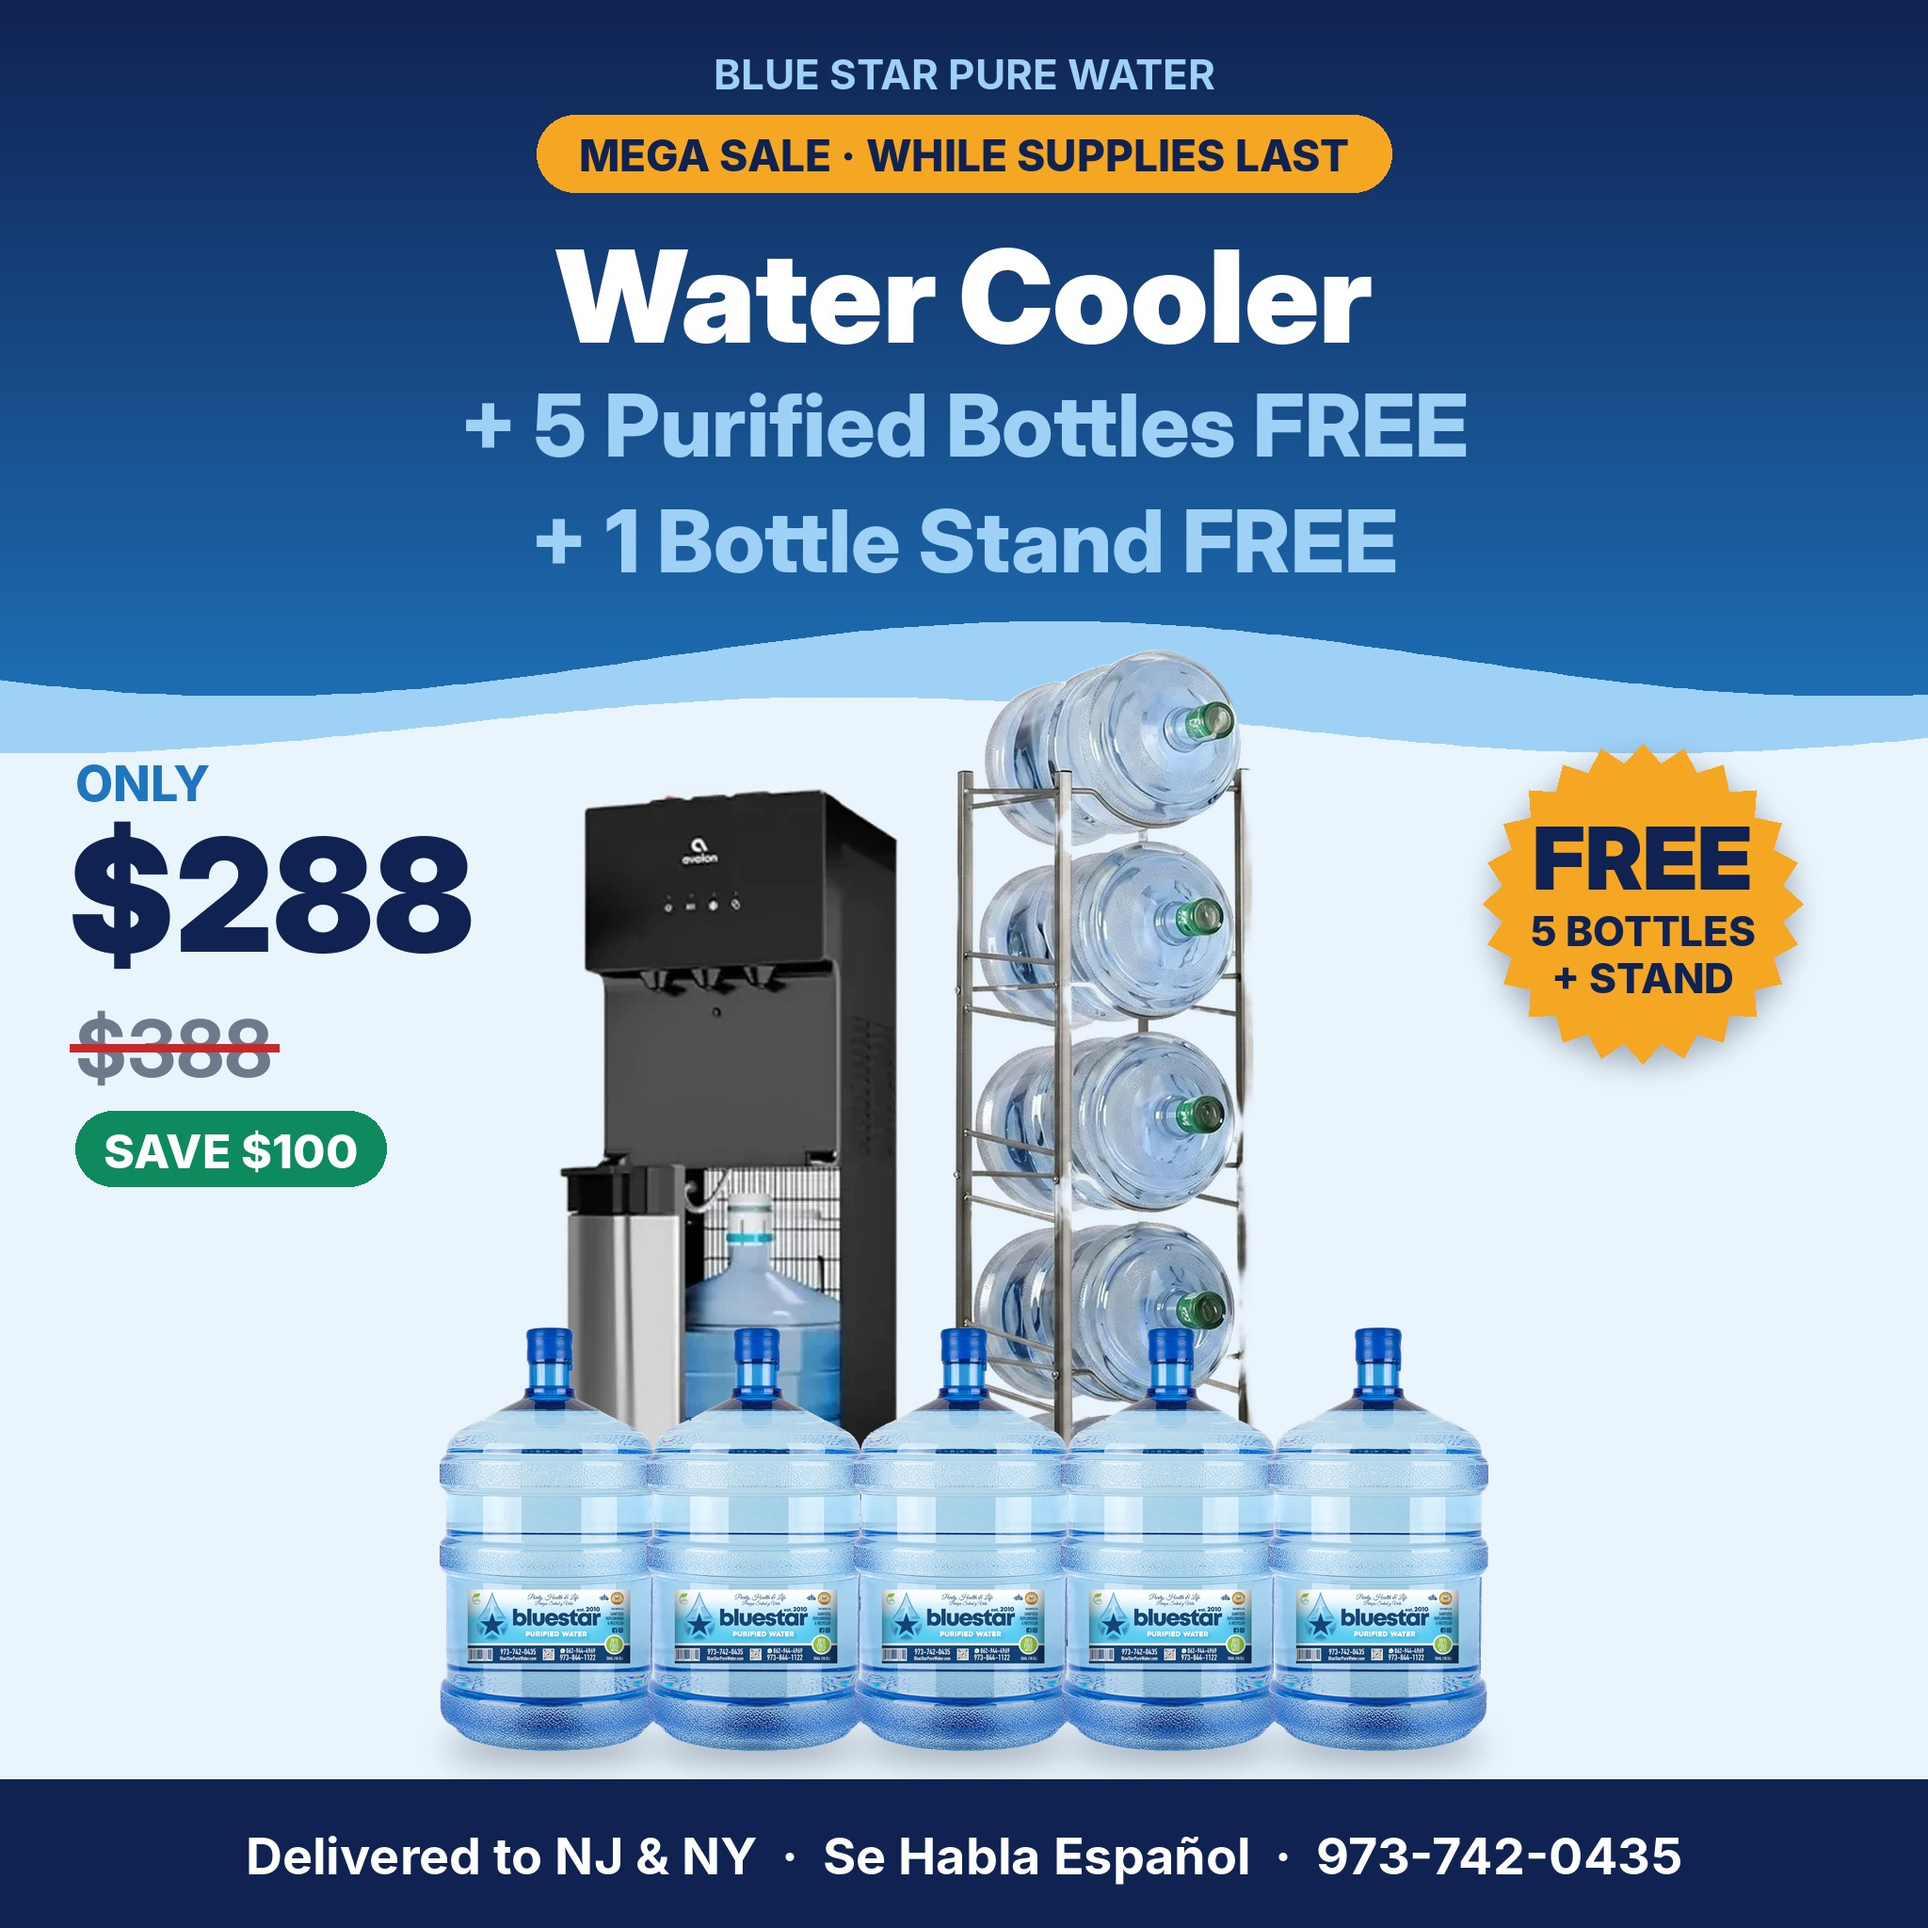
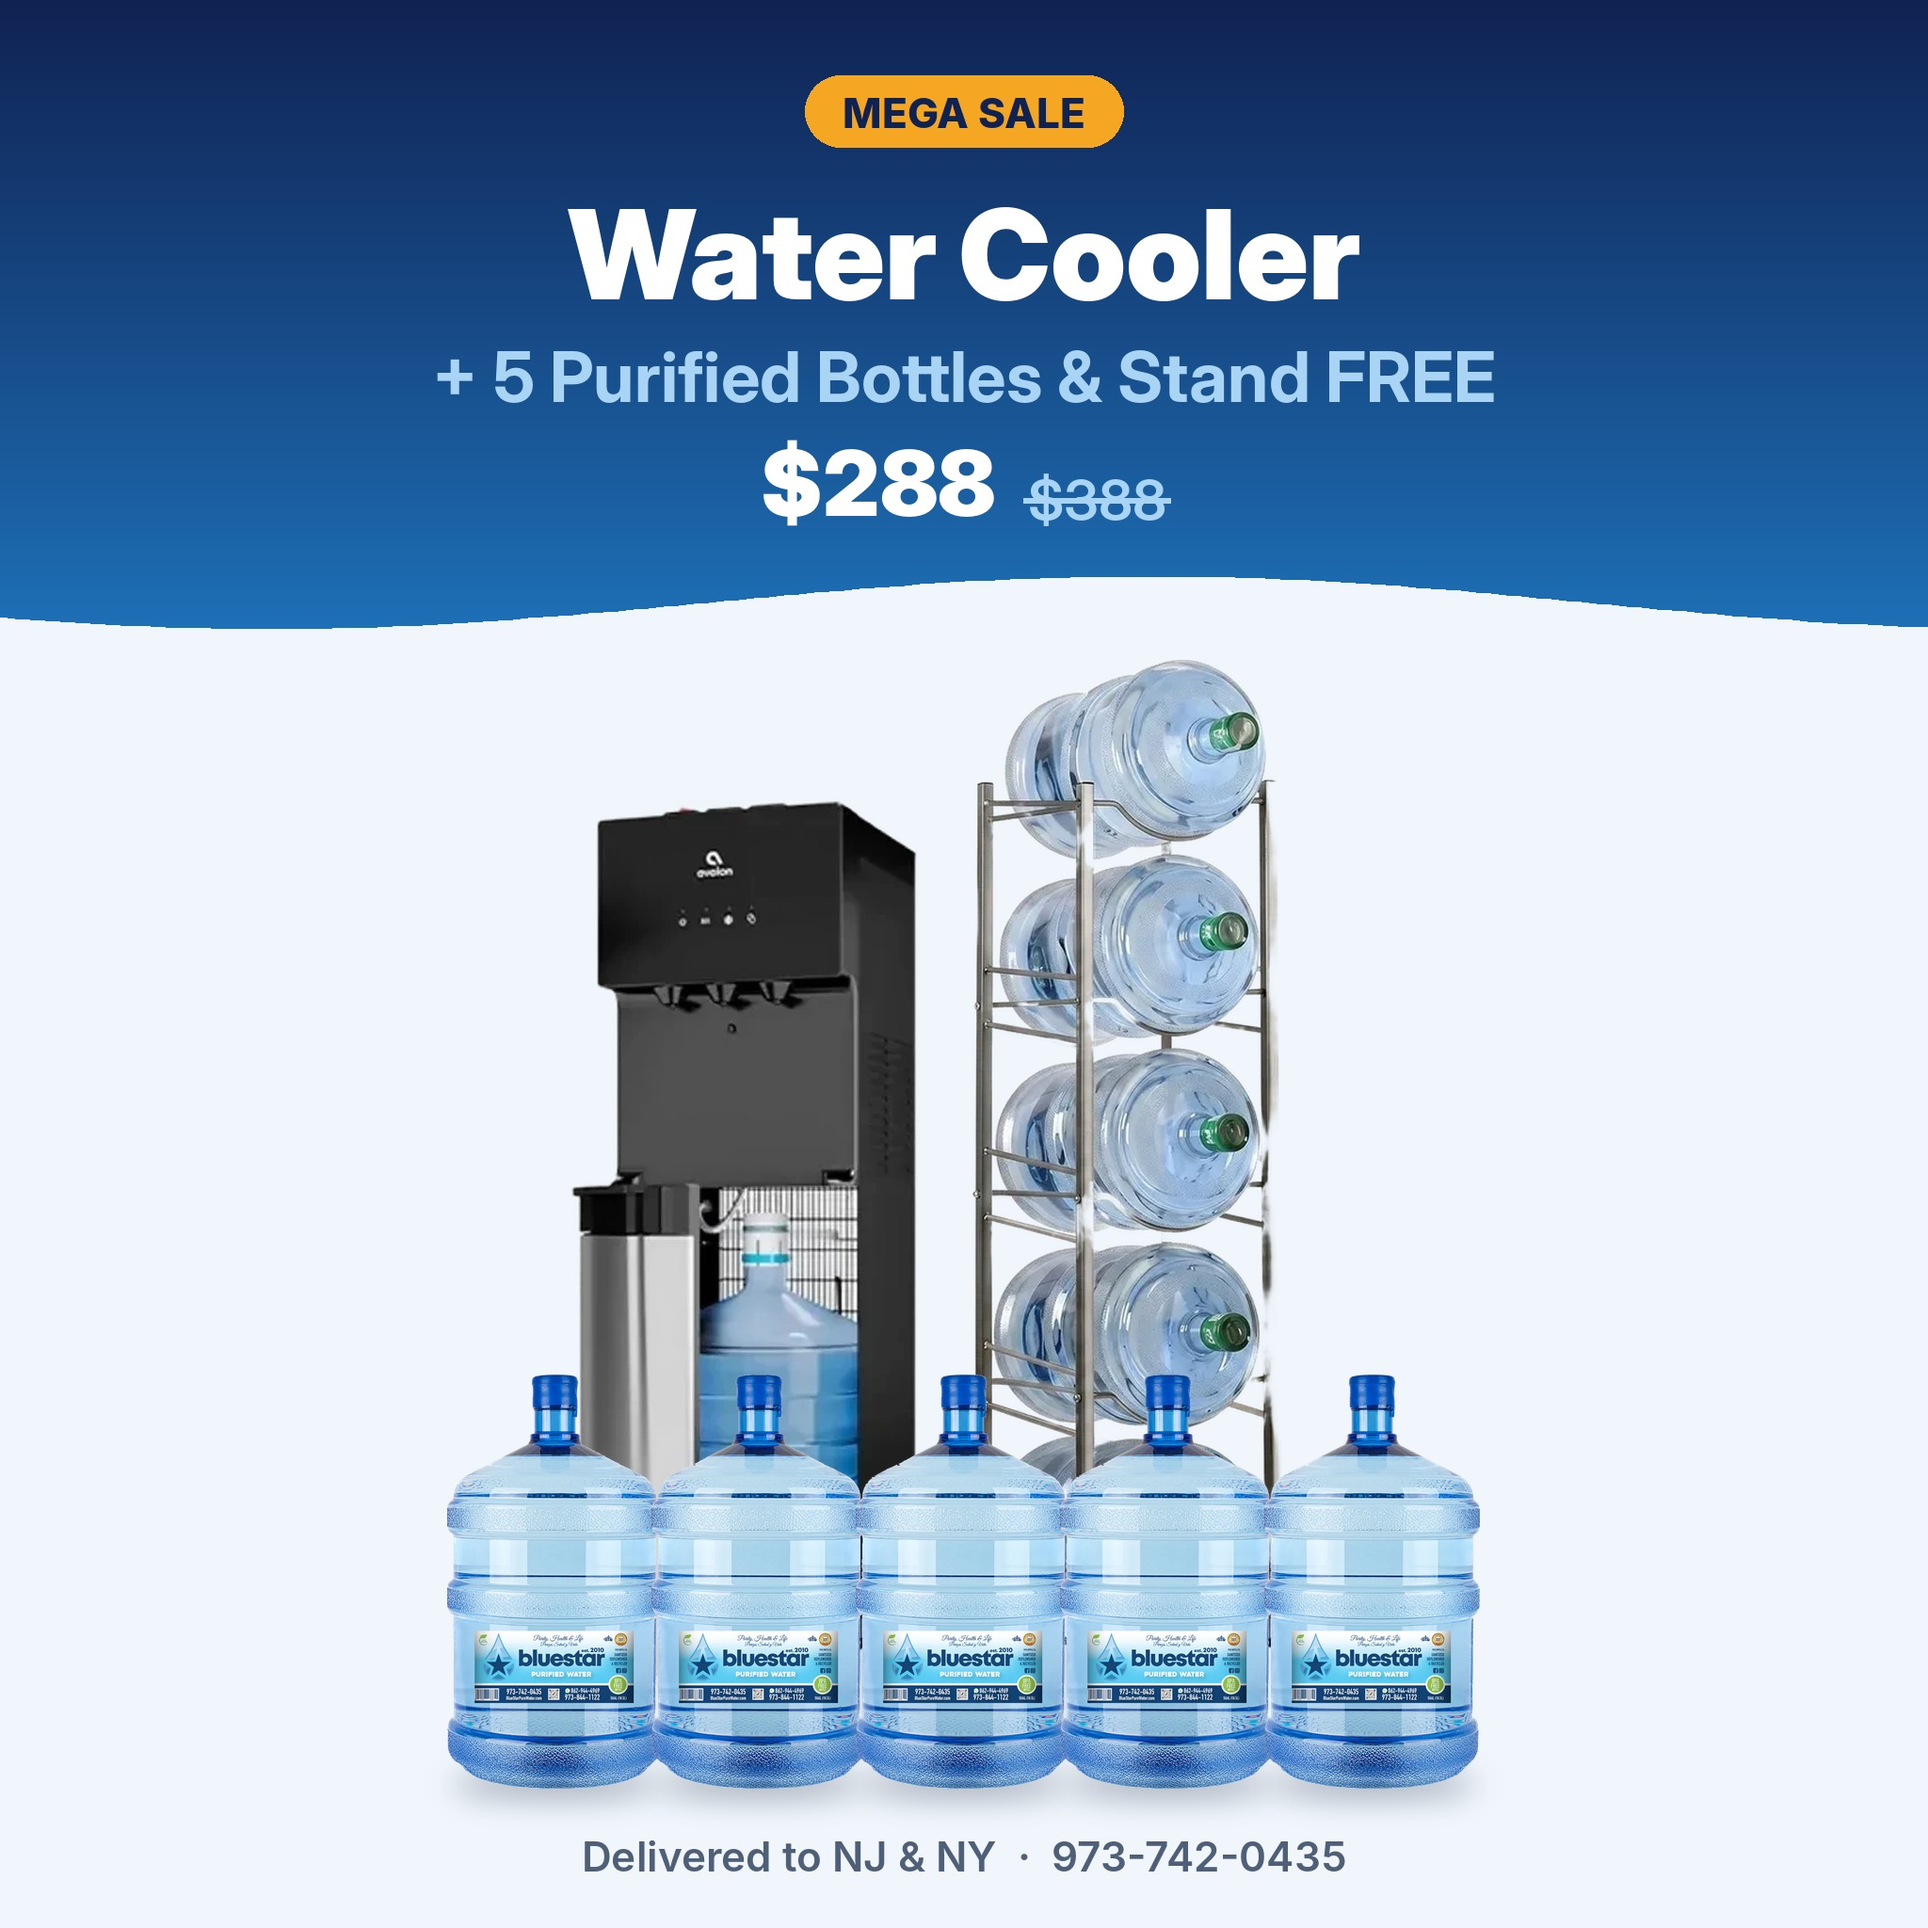
Bundle promo: simpler layout with price in the header
Claude-Session: https://claude.ai/code/session_011y2TH2zgT7H1AYYPi3Ntwd

diff --git a/product-photos/src/bundle_promo.py b/product-photos/src/bundle_promo.py
@@ -5,45 +5,38 @@ SRC='product-photos/src/cooler-stand.webp'
 JUG='RoutesTab.js'
 F='/usr/share/fonts/opentype/inter/'
 def font(n,s): return ImageFont.truetype(F+n,s)
+lang,PRICE,WAS=(sys.argv[1:4]+['en','288','388'][len(sys.argv)-1:])[:3]
 W=2048
-NAVY=(16,34,82); BLUE=(31,118,191); SKY=(234,244,252); GOLD=(245,166,35); WHITE=(255,255,255)
-lang=sys.argv[1] if len(sys.argv)>1 else 'en'
-PRICE,WAS=sys.argv[2],sys.argv[3]
-T={'en':dict(pill='MEGA SALE · WHILE SUPPLIES LAST',h1='Water Cooler',h2='+ 5 Purified Bottles FREE',h3='+ 1 Bottle Stand FREE',
-            free1='FREE',free2='5 BOTTLES',free3='+ STAND',foot='Delivered to NJ & NY  ·  Se Habla Español  ·  973-742-0435',brand='BLUE STAR PURE WATER',only='ONLY',save='SAVE'),
-   'es':dict(pill='MEGA OFERTA · HASTA AGOTAR EXISTENCIAS',h1='Dispensador de agua',h2='+ 5 botellas purificadas GRATIS',h3='+ 1 estante GRATIS',
-            free1='GRATIS',free2='5 BOTELLAS',free3='+ ESTANTE',foot='Entregas en NJ y NY  ·  Hablamos español  ·  973-742-0435',brand='BLUE STAR PURE WATER',only='SOLO',save='AHORRA')}[lang]
+NAVY=(16,34,82); BLUE=(31,118,191); SKY=(240,246,252); GOLD=(245,166,35); WHITE=(255,255,255); PALE=(170,212,245)
+T={'en':dict(pill='MEGA SALE',h1='Water Cooler',h2='+ 5 Purified Bottles & Stand FREE',foot='Delivered to NJ & NY  ·  973-742-0435'),
+   'es':dict(pill='MEGA OFERTA',h1='Dispensador de agua',h2='+ 5 botellas purificadas y estante GRATIS',foot='Entregas en NJ y NY  ·  973-742-0435')}[lang]
 c=Image.new('RGBA',(W,W),SKY+(255,))
-d=ImageDraw.Draw(c)
-# top gradient band with wave edge
+band=640
 top=Image.new('RGBA',(W,W),(0,0,0,0)); td=ImageDraw.Draw(top)
-band=700
-for y in range(band+120):
-    t=y/(band+120); col=tuple(int(NAVY[i]*(1-t)+BLUE[i]*t) for i in range(3))
-    td.line([(0,y),(W,y)],fill=col+(255,))
-mask=Image.new('L',(W,W),0); md=ImageDraw.Draw(mask)
-pts=[(0,0),(W,0)]+[(x, band+40*math.sin(x/W*2*math.pi*1.2+0.6)) for x in range(W,-1,-16)]
-md.polygon(pts,fill=255)
+for y in range(band+80):
+    t=y/(band+80); td.line([(0,y),(W,y)],fill=tuple(int(NAVY[i]*(1-t)+BLUE[i]*t) for i in range(3))+(255,))
+mask=Image.new('L',(W,W),0)
+ImageDraw.Draw(mask).polygon([(0,0),(W,0)]+[(x,band+28*math.sin(x/W*2*math.pi*1.1+0.6)) for x in range(W,-1,-16)],fill=255)
 top.putalpha(mask); c.alpha_composite(top)
-# lighter second wave
-w2=Image.new('RGBA',(W,W),(0,0,0,0)); wd=ImageDraw.Draw(w2)
-pts2=[(x, band+40*math.sin(x/W*2*math.pi*1.2+0.6)) for x in range(0,W+1,16)]+[(x, band+70+30*math.sin(x/W*2*math.pi*1.2+1.4)) for x in range(W,-1,-16)]
-wd.polygon(pts2,fill=(159,208,245,255)); c.alpha_composite(w2)
 d=ImageDraw.Draw(c)
-def ctext(y,txt,f,fill):
-    w=d.textlength(txt,font=f); d.text(((W-w)/2,y),txt,font=f,fill=fill); return f.getbbox(txt)[3]
-# brand line
-ctext(52,T['brand'],font('Inter-Bold.otf',44),(159,208,245))
-# pill
-pf=font('Inter-ExtraBold.otf',46); pw=d.textlength(T['pill'],font=pf)+90; px=(W-pw)/2
-d.rounded_rectangle((px,122,px+pw,204),radius=41,fill=GOLD); ctext(137,T['pill'],pf,NAVY)
-# headline (auto-fit)
 def fit(txt,name,size,maxw):
     while d.textlength(txt,font=font(name,size))>maxw: size-=4
     return font(name,size)
-ctext(232,T['h1'],fit(T['h1'],'InterDisplay-Black.otf',136,1850),WHITE)
-ctext(395,T['h2'],fit(T['h2'],'InterDisplay-ExtraBold.otf',92,1850),(159,208,245))
-ctext(518,T['h3'],fit(T['h3'],'InterDisplay-ExtraBold.otf',92,1850),(159,208,245))
+def ctext(y,txt,f,fill):
+    w=d.textlength(txt,font=f); d.text(((W-w)/2,y),txt,font=f,fill=fill)
+# pill
+pf=font('Inter-ExtraBold.otf',44); pw=d.textlength(T['pill'],font=pf)+80; px=(W-pw)/2
+d.rounded_rectangle((px,80,px+pw,156),radius=38,fill=GOLD); ctext(93,T['pill'],pf,NAVY)
+ctext(190,T['h1'],fit(T['h1'],'InterDisplay-Black.otf',132,1800),WHITE)
+ctext(355,T['h2'],fit(T['h2'],'InterDisplay-Bold.otf',74,1800),PALE)
+# price row: $288  $388 (struck)
+pf2=font('InterDisplay-Black.otf',96); wf=font('InterDisplay-SemiBold.otf',60)
+p1='$'+PRICE; p2='$'+WAS; w1=d.textlength(p1,font=pf2); w2=d.textlength(p2,font=wf); gap=34
+x=(W-(w1+gap+w2))/2; y=455
+d.text((x,y),p1,font=pf2,fill=WHITE)
+bb=wf.getbbox(p2); y2=y+pf2.getbbox(p1)[3]-bb[3]
+d.text((x+w1+gap,y2),p2,font=wf,fill=PALE)
+ym=y2+(bb[1]+bb[3])//2; d.line((x+w1+gap-4,ym,x+w1+gap+w2+4,ym),fill=PALE,width=6)
 # products
 back=Image.open(SRC).convert('RGBA'); back=back.crop(back.getbbox())
 jug=Image.open(JUG).convert('RGBA'); jug=jug.crop(jug.getbbox())
@@ -51,43 +44,14 @@ def floor_shadow(cx,cy,w,h,op):
     pad=h*3; m=Image.new('L',(w+2*pad,h+2*pad),0)
     ImageDraw.Draw(m).ellipse((pad,pad,pad+w,pad+h),fill=op); m=m.filter(ImageFilter.GaussianBlur(h*0.6))
     s=Image.new('RGBA',m.size,(25,35,60,0)); s.putalpha(m); c.alpha_composite(s,(int(cx-w/2-pad),int(cy-h/2-pad)))
-def put(im,h,x,yb,op=110):
+def put(im,h,x,yb,op=100):
     w=int(im.width*h/im.height); j=im.resize((w,h),Image.LANCZOS)
     floor_shadow(x+w/2,yb-h*0.01,int(w*0.95),max(12,int(h*0.06)),op); c.alpha_composite(j,(int(x),int(yb-h))); return w
-floor=1860; bh=1060; bw=int(back.width*bh/back.height); bx=(W-bw)//2-60
-put(back,bh,bx,floor-110,70)
-jh=450; jw=int(jug.width*jh/jug.height); g=-14
-tot=5*jw+4*g; x0=(W-tot)//2
+floor=1900; bh=1080; bw=int(back.width*bh/back.height); bx=(W-bw)//2-40
+put(back,bh,bx,floor-120,60)
+jh=440; jw=int(jug.width*jh/jug.height); g=-12; tot=5*jw+4*g; x0=(W-tot)//2
 for i in range(5): put(jug,jh,x0+i*(jw+g),floor)
-
-# price block (left of the cooler)
-px0=80; py0=800
-d.text((px0,py0),T['only'],font=font('Inter-ExtraBold.otf',52),fill=BLUE)
-pf=font('InterDisplay-Black.otf',166)
-assert px0+d.textlength('$'+PRICE,font=pf) < (W-int(back.width*1060/back.height))//2-60-20, 'price overlaps cooler'
-d.text((px0-8,py0+50),'$'+PRICE,font=pf,fill=NAVY)
-wf=font('InterDisplay-Bold.otf',84); wt='$'+WAS
-d.text((px0,py0+262),wt,font=wf,fill=(110,122,140))
-ww=d.textlength(wt,font=wf); yb=py0+262+wf.getbbox(wt)[1]+(wf.getbbox(wt)[3]-wf.getbbox(wt)[1])//2
-d.line((px0-6,yb,px0+ww+6,yb),fill=(200,40,40),width=9)
-sv=T['save']+' $'+str(int(float(WAS))-int(float(PRICE)))
-sf=font('Inter-ExtraBold.otf',50); sw=d.textlength(sv,font=sf)
-d.rounded_rectangle((px0,py0+380,px0+sw+60,py0+460),radius=40,fill=(14,138,95))
-d.text((px0+30,py0+392),sv,font=sf,fill=WHITE)
-# FREE burst
-cx,cy,r=1745,960,170
-burst=Image.new('RGBA',(W,W),(0,0,0,0)); bd=ImageDraw.Draw(burst)
-pts=[]
-for k in range(48):
-    a=k*math.pi/24; rr=r if k%2==0 else r*0.88; pts.append((cx+rr*math.cos(a),cy+rr*math.sin(a)))
-bd.polygon(pts,fill=GOLD+(255,))
-sh=burst.split()[-1].filter(ImageFilter.GaussianBlur(14)); s=Image.new('RGBA',(W,W),(25,35,60,0)); s.putalpha(sh.point(lambda v:int(v*0.35)))
-c.alpha_composite(s,(0,10)); c.alpha_composite(burst)
-d=ImageDraw.Draw(c)
-for txt,f,yy in [(T['free1'],fit(T['free1'],'InterDisplay-Black.otf',92,270),cy-105),(T['free2'],fit(T['free2'],'Inter-ExtraBold.otf',44,260),cy+2),(T['free3'],fit(T['free3'],'Inter-ExtraBold.otf',44,260),cy+52)]:
-    w=d.textlength(txt,font=f); d.text((cx-w/2,yy),txt,font=f,fill=NAVY)
-# footer strip
-d.rectangle((0,1890,W,W),fill=NAVY)
-ff=fit(T['foot'],'Inter-Bold.otf',54,1900); ctext(1938,T['foot'],ff,WHITE)
+# small footer line
+ctext(1945,T['foot'],font('Inter-SemiBold.otf',44),(80,95,120))
 c.convert('RGB').save(f'promo_{lang}.jpg',quality=92)
 t=c.convert('RGB'); t.thumbnail((800,800)); t.save(f'promo_{lang}_s.png')
